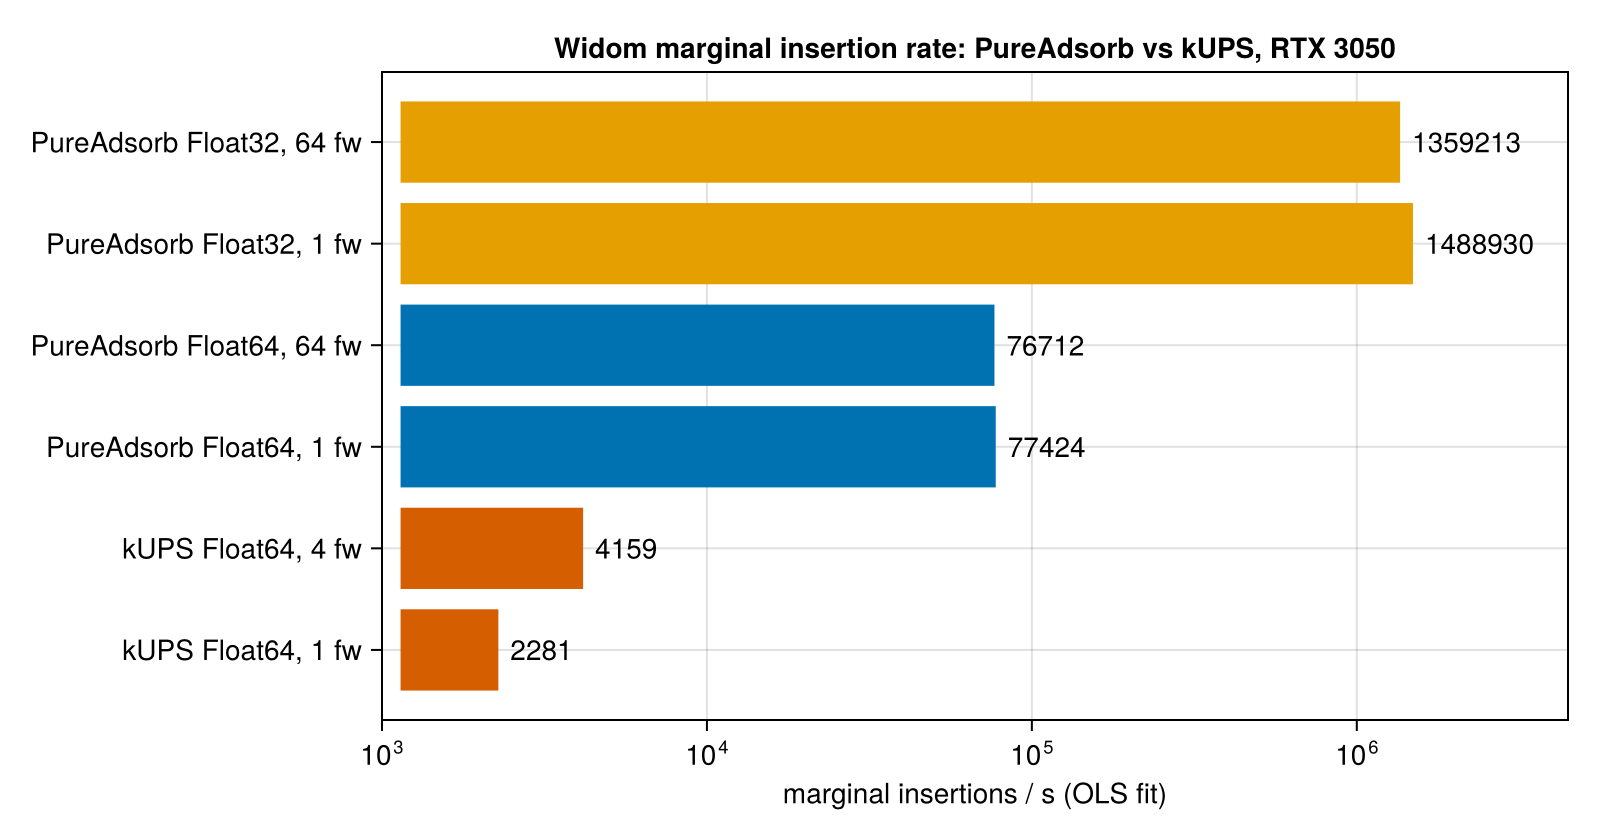
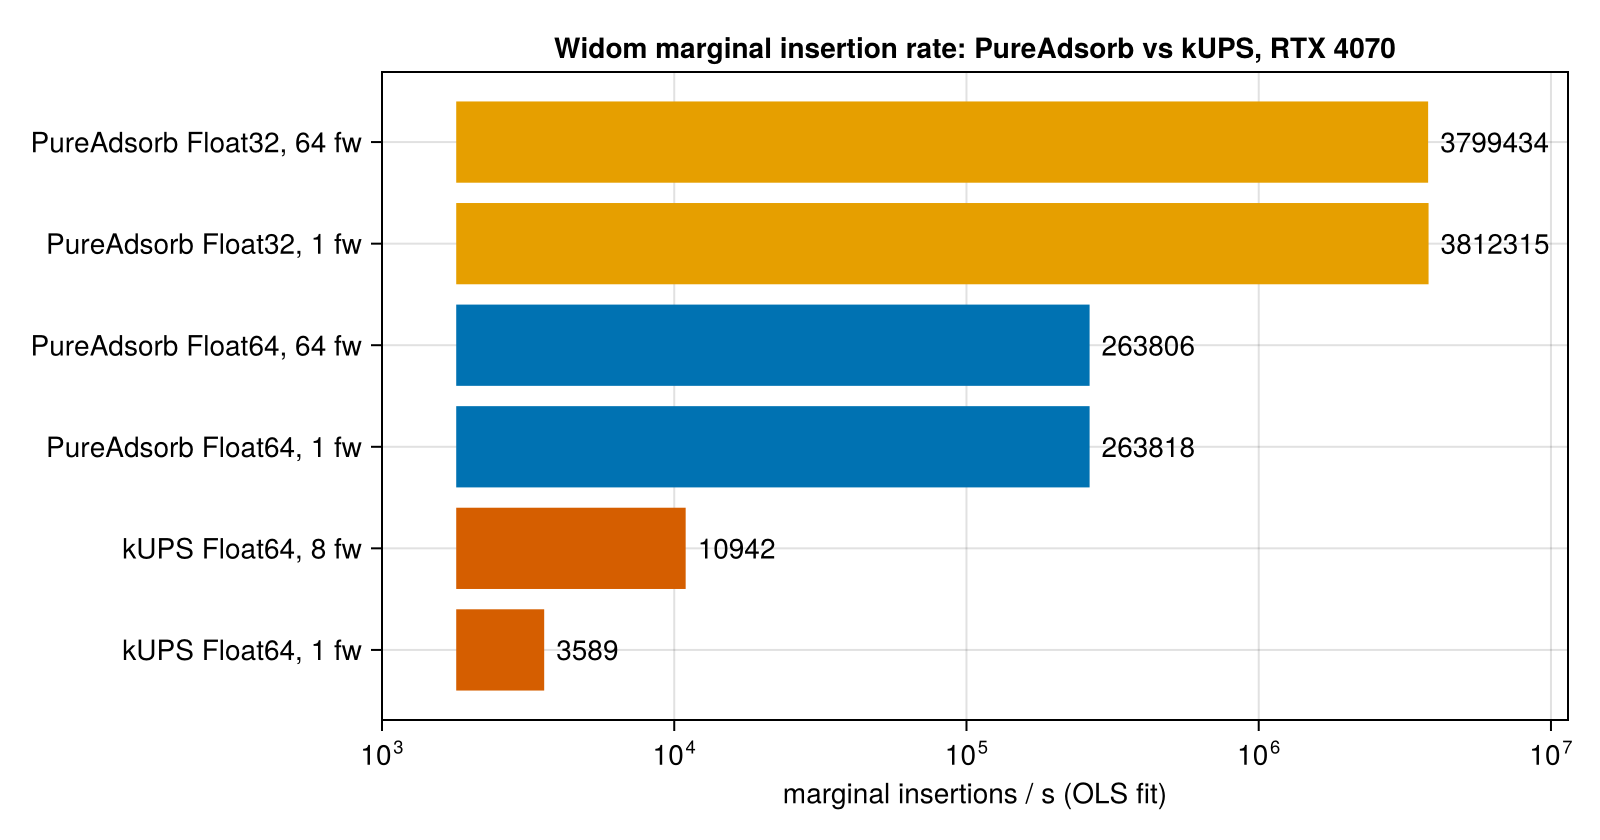
Lead benchmarks page with the RTX 4070
Swaps the RTX 3050 head-to-head for the RTX 4070 measurements,
reports both the same-batch (73.5x) and matched-batch (24.1x)
ratios to kUPS, and corrects the fixed-cost and fit-residual
claims that the 3050 numbers implied. Adds the Apple M6 to the
secondary hardware table and a transfer-bandwidth subsection.

Assisted-by: Claude Sonnet 5 <noreply@anthropic.com>

diff --git a/docs/src/benchmarks.md b/docs/src/benchmarks.md
@@ -1,81 +1,123 @@
 # Benchmarks
 
 PureAdsorb against [kUPS](https://github.com/cusp-ai-oss/kups) on the same GPU, followed by
-PureAdsorb on a larger card. Numbers below are computed from the committed JSON files in
+PureAdsorb on other hardware. Numbers below are computed from the committed JSON files in
 `bench/results/`; nothing here is re-measured for this page.
 
-## Widom insertion rate, RTX 3050 6 GB
+## Widom insertion rate, RTX 4070 12 GB
 
 RUBTAK 3×3×3 + CO2, LJ 12 Å / Ewald 12 Å cutoffs, Ewald precision 1e-6 — the same case, same
-host CIF, force field and guest files (byte-identical to kUPS's own examples) on both codes.
+host CIF, force field and guest files (byte-identical to kUPS's own examples) on both codes, run
+on the same card (host `neuromancer4070`, a USB4 eGPU enclosure).
 
-| Code | Precision | Frameworks | Marginal rate (insertions/s) | Ratio to kUPS (1 fw) |
+| Code | Precision | Frameworks | Marginal rate (insertions/s) | Ratio to kUPS |
 |---|---|---|---|---|
-| kUPS | Float64 | 1 | 2,281 | 1.0× |
-| kUPS | Float64 | 4 | 4,159 | 1.8× |
-| PureAdsorb | Float64 | 1 | 77,424 | 33.9× |
-| PureAdsorb | Float64 | 64 | 76,712 | 33.6× |
-| PureAdsorb | Float32 | 1 | 1,488,930 | 652.7× |
-| PureAdsorb | Float32 | 64 | 1,359,213 | 595.9× |
+| kUPS | Float64 | 1 | 3,589 | 1.0× |
+| kUPS | Float64 | 8 | 10,942 | — (kUPS's own best batch on this card) |
+| PureAdsorb | Float64 | 1 | 263,818 | 73.5× |
+| PureAdsorb | Float64 | 8 | 263,169 | 24.1× |
+| PureAdsorb | Float64 | 64 | 263,806 | 24.1× (vs. kUPS's 8-fw row) |
+| PureAdsorb | Float32 | 1 | 3,812,315 | 1,062.2× (reference; kUPS has no Float32 mode) |
+| PureAdsorb | Float32 | 64 | 3,799,434 | 1,058.6× (reference) |
 
-PureAdsorb's Float64 marginal rate is 33.9× kUPS's rate at 1 framework and 18.6× kUPS's best
-rate (4 frameworks, the largest power-of-two batch that fits in 6 GB). kUPS forces
+PureAdsorb's Float64 marginal rate is 73.5× kUPS's at one framework each — the literal,
+same-batch-size comparison — and 24.1× kUPS's own best batch on this card (8 frameworks, its
+memory ceiling; PureAdsorb's rate barely depends on the batch size, so its 8-fw and 64-fw rows
+agree to within 0.3%). Both ratios come from the same two codes on the same card; the smaller,
+fairer number is reported alongside the larger one, not in its place. kUPS forces
 `jax_enable_x64` and has no Float32 mode for this workload, so the Float32 rows have no kUPS
-counterpart; PureAdsorb's Float32 numbers are reported for reference only.
+counterpart; they are compared against kUPS's Float64 rate at 1 framework for reference only.
 
 ![Widom marginal insertion rate: PureAdsorb vs kUPS](assets/widom_vs_kups.png)
 
-## Widom insertion rate, Radeon AI PRO R9700 32 GB
+## Widom insertion rate, other hardware
 
-The same case and the same source revision on a larger card (host `galen`, ROCm). kUPS is not
-measured here, so the ratio column crosses two different GPUs and is not a like-for-like
-comparison of the two codes.
+The same case and source revision (`src/` is unchanged across the commits below, verified by
+`git diff --stat <commit> b26cb8a -- src/`), on other cards. kUPS is not measured on any of
+these, so the ratio column crosses machines and is not a like-for-like comparison of the two
+codes.
 
-| Code | Precision | Frameworks | Marginal rate (insertions/s) | Ratio to kUPS on the RTX 3050 (1 fw) |
+| Code | Precision | Frameworks | Marginal rate (insertions/s) | Ratio to kUPS (RTX 4070, 1 fw) |
 |---|---|---|---|---|
-| PureAdsorb | Float64 | 1 | 270,794 | 118.7× |
-| PureAdsorb | Float64 | 64 | 269,620 | 118.2× |
-| PureAdsorb | Float32 | 1 | 2,700,433 | 1,183.8× |
-| PureAdsorb | Float32 | 64 | 3,708,049 | 1,625.5× |
+| PureAdsorb (R9700, ROCm) | Float64 | 1 | 270,794 | 75.4× |
+| PureAdsorb (R9700, ROCm) | Float64 | 64 | 269,620 | 75.1× |
+| PureAdsorb (R9700, ROCm) | Float32 | 1 | 2,700,433 | 752.4× |
+| PureAdsorb (R9700, ROCm) | Float32 | 64 | 3,708,049 | 1,033.1× |
+| PureAdsorb (Apple M6, Metal) | Float32 | 1 | 2,118,441 | 590.2× |
+| PureAdsorb (Apple M6, Metal) | Float32 | 64 | 2,112,754 | 588.6× |
+| PureAdsorb (Apple M6, CPU) | Float64 | 1 | 243,011 | 67.7× |
 
-Because PureAdsorb is measured on both cards at the same source revision, the card and the code
-separate: in Float64 at one framework the R9700 is 3.5× the RTX 3050, so the remaining factor
-against kUPS is the same 34× the single-card table shows. In Float32 the card is worth 1.8× at
-one framework and 2.7× at 64.
+Apple GPUs have no double precision, so there is no Metal Float64 row; the CPU row on the same
+machine is its Float64 reference instead. Comparing PureAdsorb against itself at 1 framework,
+same code: the R9700 is 1.0× the RTX 4070 in Float64 and 0.7× in Float32; the Apple M6's Metal
+backend is 0.6× the RTX 4070 in Float32.
 
 ## Method
 
-Both codes run on the same RTX 3050 (host `neuromancer`), but kUPS times its whole process
+Both codes run on the same RTX 4070 (host `neuromancer4070`), but kUPS times its whole process
 (interpreter startup, JIT compilation, and the insertions) while PureAdsorb's samples are
 `Chairmarks` measurements of `widom(...)` warm, in-process — so `ninsert / t` is not comparable
 between them directly. Instead, for each `nsys`, `t = intercept + ninsert / rate` is fit by
 ordinary least squares over the median time at each `ninsert`, and the fitted `rate` is
 compared; the intercept absorbs kUPS's per-process startup cost, which PureAdsorb's warm
-in-process timing never pays. kUPS and PureAdsorb are timed in separate runs on this machine,
-kUPS at commit `e183c9a` and PureAdsorb at commit `e903fac`. The R9700 numbers use the same fit
-and the same grid, at that same PureAdsorb commit.
+in-process timing never pays. kUPS and PureAdsorb are timed in an interleaved run on this
+machine (kUPS at commit `e183c9a`, PureAdsorb at commit `b26cb8a`), alternating a kUPS block
+with a PureAdsorb block at each `(nsys, ninsert)` point so neither code is measured entirely
+cold or entirely GPU-warmed relative to the other. The other-hardware numbers use the same fit
+and the same grid, run separately rather than interleaved (PureAdsorb commits `e903fac` for the
+R9700 and `53f8e40`/`97efb80` for the Apple M6).
+
+The three-point grid (`ninsert` = 10^4, 10^5, 10^6) spans two decades, which gives the largest
+point most of an unweighted fit's leverage: the fitted rate describes the large-run limit, not
+a reliable small-run estimate, and the intercept is not a reliable estimate of small-run
+overhead. Residuals of the fitted line against the median times, RTX 4070, nsys=1: PureAdsorb
+Float64 is +34.7% at `ninsert=10^4`, -12.7% at `10^5`, +0.11% at `10^6`; PureAdsorb Float32 is
++21.6%, -8.1%, +0.08% at the same three points. kUPS's residuals stay under 2.5% everywhere
+(largest magnitude 2.4%, at `ninsert=10^4`), since its own ~17-20 s fixed cost dominates the
+small end and its per-insertion rate dominates the large end evenly.
+
+### Transfer is not the bottleneck
+
+The RTX 4070 sits behind a USB4 (not PCIe-native) eGPU enclosure (an ASMedia ASM2464-class
+bridge negotiating 40 Gb/s), so its host-device link runs PCIe gen 4 at 4 lanes under sustained
+load rather than the card's native 16-lane slot; measured host-device bandwidth at the transfer
+sizes `widom`'s own per-chunk copies use is 1.3-1.6 GB/s. Against the kernel-only phase0+phase1
+time at `nsys=1` (242.4 ms Float64, 12.45 ms Float32, both medians from the committed
+`kernel_only_s` samples), the per-chunk transfer is **0.55% of kernel time at Float64 and 6.1%
+at Float32 — not the bottleneck at either precision on this card.**
+
+Scaling the `ninsert=10^6` end-to-end median down to one chunk-equivalent and subtracting the
+kernel-only time gives a total non-kernel overhead per chunk of 3.2% (Float64) and 29.0%
+(Float32) of end-to-end time. Only a small part of that is the measured transfer time above;
+the remainder — host-side pose generation, survivor compaction, and Boltzmann-weight
+accumulation — has not been decomposed further. That 29% at Float32 is unmeasured, not
+attributed to any one of those candidates.
 
 ## Fixed cost per process
 
 | Code | Fixed cost per process (s) | What it includes |
 |---|---|---|
-| kUPS | ≈16.9–18.5 (regression intercept above) | interpreter startup, JIT compilation |
-| PureAdsorb (CUDA) | 13.25 (median of 3 whole-process runs) | Julia startup, package load, kernel compilation, one warm sample |
+| kUPS | 17.2-20.5 (regression intercept above) | interpreter startup, JIT compilation |
+| PureAdsorb (CUDA) | 16.18 (median of 3 whole-process runs) | Julia startup, package load, kernel compilation, one warm sample |
 
-PureAdsorb's fixed cost is `bench/results/pureadsorb_widom_processcost_neuromancer_f64_20260919.json`,
+PureAdsorb's fixed cost is `bench/results/pureadsorb_widom_processcost_neuromancer4070_f64_20260926.json`,
 measured as whole-process wall time around a single-sample run, the same way kUPS's cost is a
-whole-process time.
+whole-process time. The two costs are close on this card: process startup is not a large
+advantage for either code here.
 
 ## Memory
 
 kUPS batches insertions across all `nsys` systems into one compiled step, so its memory
-requirement grows with `nsys`; on this 6 GB card it fails to build its batched state at
-`nsys ∈ {8, 16, 32, 64}` with `RESOURCE_EXHAUSTED`. PureAdsorb runs `nsys = 64` on the same card
-without difficulty. kUPS is Float64-only for this workload, so no Float32 memory comparison
-exists.
+requirement grows with `nsys` and is set by the batched-state size, not the card. On this 12 GB
+card it builds `nsys ∈ {1, 2, 4, 8}` but fails at `nsys=16` with `RESOURCE_EXHAUSTED` trying to
+allocate 10.08 GiB — the identical allocation size that failed on a 6 GB card at the same
+`nsys=16`; doubling the card's memory (6 GB to 12 GB) bought exactly one more doubling of usable
+batch size (4 to 8), not an unbounded increase, because the batched-state allocation itself
+doubles with `nsys`. JAX also reserves most of the GPU's memory at process start by default,
+independent of this allocation. PureAdsorb runs `nsys = 64` on the same card without difficulty.
 
 PureAdsorb's own per-framework device footprint (RUBTAK 3×3×3 + CO2, default `cellwidth = 2`) is
-143,436 B (Float64) and 89,552 B (Float32), from `bytes_per_system` in
+143,436 B (Float64) and 89,552 B (Float32), from `bytes` in
 `bench/results/pureadsorb_widom_scaling_galen_rocm_f64_run256_20260920_a4c86a7.json` and the
 `f32` file alongside it.
 
@@ -83,15 +125,21 @@ PureAdsorb's own per-framework device footprint (RUBTAK 3×3×3 + CO2, default `
 
 ```bash
 # kUPS timing (needs a kUPS checkout outside this repo, at commit e183c9a)
-bench/run_headtohead.sh
+PA_HOST=neuromancer4070 bench/run_headtohead.sh
 
 # PureAdsorb, at the current commit
 julia --project=bench/gpu -e 'using Pkg; Pkg.instantiate()'
-PA_COMMIT=$(git rev-parse --short HEAD) PA_BACKEND=cuda PA_PRECISION=f64 julia --project=bench/gpu bench/widom_bench.jl
-PA_COMMIT=$(git rev-parse --short HEAD) PA_BACKEND=cuda PA_PRECISION=f32 julia --project=bench/gpu bench/widom_bench.jl
+PA_HOST=neuromancer4070 PA_COMMIT=$(git rev-parse --short HEAD) PA_BACKEND=cuda PA_PRECISION=f64 julia --project=bench/gpu bench/widom_bench.jl
+PA_HOST=neuromancer4070 PA_COMMIT=$(git rev-parse --short HEAD) PA_BACKEND=cuda PA_PRECISION=f32 julia --project=bench/gpu bench/widom_bench.jl
 
 # R9700, on galen: same script, ROCm backend
 PA_COMMIT=$(git rev-parse --short HEAD) PA_BACKEND=rocm PA_PRECISION=f64 julia --project=bench/gpu bench/widom_bench.jl
+PA_COMMIT=$(git rev-parse --short HEAD) PA_BACKEND=rocm PA_PRECISION=f32 julia --project=bench/gpu bench/widom_bench.jl
+
+# Apple M6, on brutus: CPU reference, then the Metal backend (Float32 only)
+julia --project=bench/metal -e 'using Pkg; Pkg.instantiate()'
+julia --project=bench/metal bench/widom_bench.jl
+PA_BACKEND=metal PA_PRECISION=f32 julia --project=bench/metal bench/widom_bench.jl
 
 # Regenerate the figure above from the committed JSON only
 julia --project=bench bench/plot_headtohead.jl
@@ -100,4 +148,5 @@ PA_PLOT_OUT=docs/src/assets/widom_vs_kups.png julia --project=bench bench/plot_h
 
 See `bench/results/README.md` for every other measurement recorded in this repository (CPU and
 AMD Radeon AI PRO R9700 throughput, batch-size and run-length scaling, per-configuration
-history), and `docs/src/validation.md` for the accuracy comparison against kUPS.
+history, and the RTX 3050's own head-to-head numbers), and `docs/src/validation.md` for the
+accuracy comparison against kUPS.
